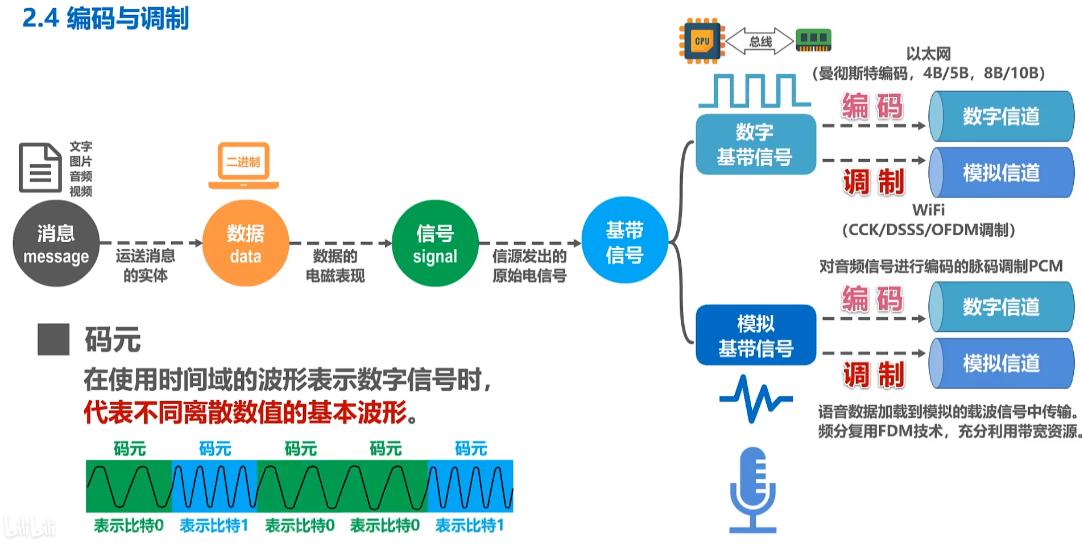
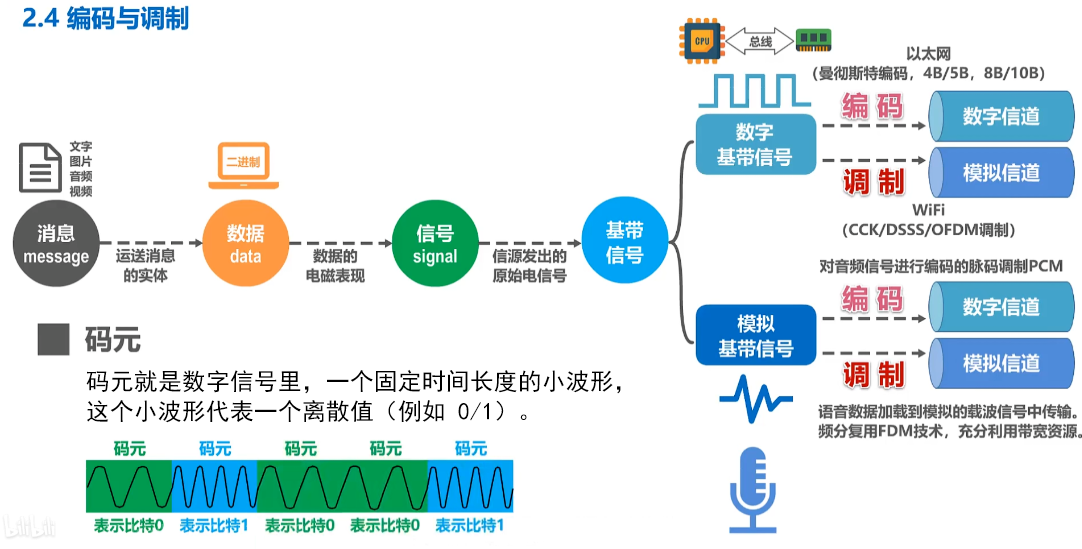
更新文章

Changed region(s): [[0.061, 0.6503, 0.5795, 0.7741]]

diff --git a/source/_posts/计算机网络/第二章 物理层.md b/source/_posts/计算机网络/第二章 物理层.md
@@ -218,7 +218,15 @@ categories:
 
 在计算机网络中，常见的是将数字基带信号通过编码或调制的方法在对应信道进行传输。
 
-数字基带信号
+对于数字基带信号：
+
+* 可以直接作为数字信号在数字信道传
+* 也可以调制成模拟形式，在模拟信道上传（参照下图中的“码元”配图）
+
+对于模拟基带信号：
+
+* 可以直接作为模拟信号在模拟信道传
+* 也可以先数字化，再在数字信道传（采样、量化、编码）
 
 ![2_21](第二章 物理层/2_21.png)
 
